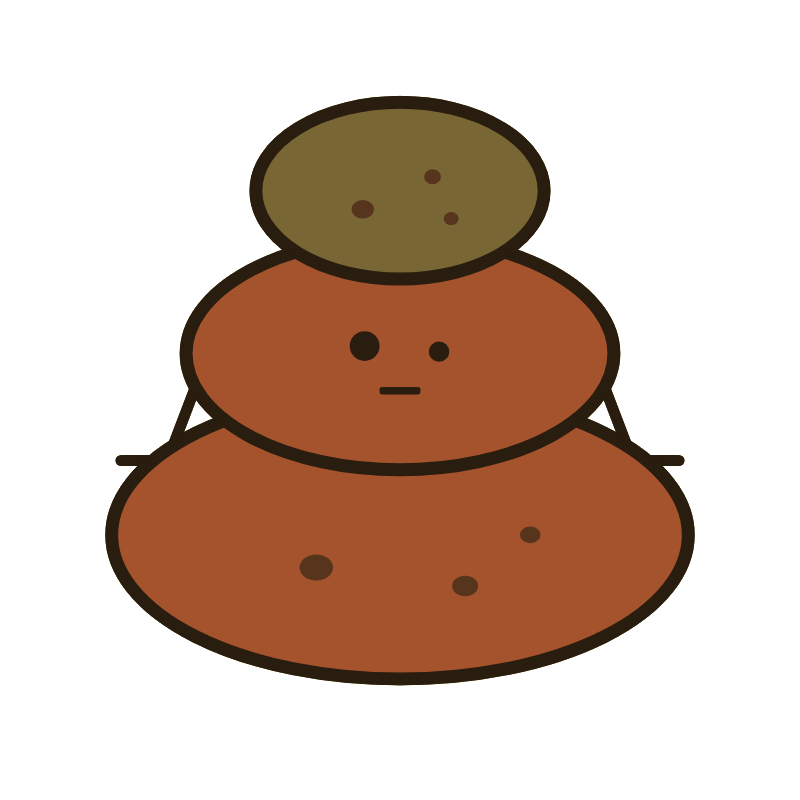
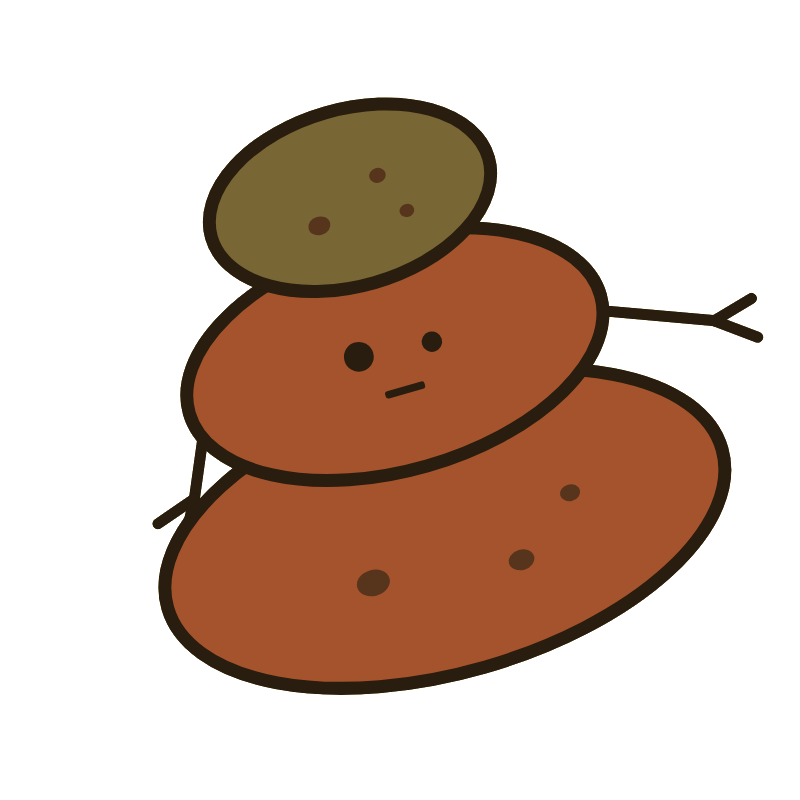
Make Tuesday lean-in and open the mouth on vowels.
tue-open is the listen lean, not a planted still. Holds keep tue-open / thu-slits. Vowels swap mouth sheets.

diff --git a/src/cairn/kit.ts b/src/cairn/kit.ts
@@ -120,14 +120,22 @@ export function resolveCairnFile(
   viseme: Viseme | null,
 ): string {
   const kit = talkingKitReady();
+  if (pose === "point") {
+    return "cairn/point.png";
+  }
+  if (
+    kit.mouth &&
+    viseme &&
+    viseme !== "closed" &&
+    (pose === "still" || pose === "listen")
+  ) {
+    return mouthFile(viseme);
+  }
   if (kit.tueThu && mood === "warm" && hasPublicFile(TUE_OPEN)) {
     return TUE_OPEN;
   }
   if (kit.tueThu && mood === "cold" && hasPublicFile(THU_SLITS)) {
     return THU_SLITS;
-  }
-  if (pose === "point") {
-    return "cairn/point.png";
   }
   if (kit.mouth && viseme && (pose === "still" || pose === "listen")) {
     return mouthFile(viseme);

diff --git a/scripts/make-cairn-kit.py b/scripts/make-cairn-kit.py
@@ -191,7 +191,7 @@ def main() -> None:
         "mouth-closed": (ARMS_STILL, 0, OPEN_EYES + MOUTH_CLOSED),
         "mouth-mid": (ARMS_STILL, 0, OPEN_EYES + MOUTH_MID),
         "mouth-open": (ARMS_STILL, 0, OPEN_EYES + MOUTH_OPEN),
-        "tue-open": (ARMS_STILL, 0, OPEN_EYES + MOUTH_CLOSED),
+        "tue-open": (ARMS_LISTEN, -16, OPEN_EYES + MOUTH_CLOSED),
         "thu-slits": (ARMS_STILL, 0, SLIT_EYES + MOUTH_CLOSED),
         "react": (ARMS_REACT, -4, OPEN_EYES + MOUTH_CLOSED),
         "present": (ARMS_PRESENT, 3, OPEN_EYES + MOUTH_CLOSED),
